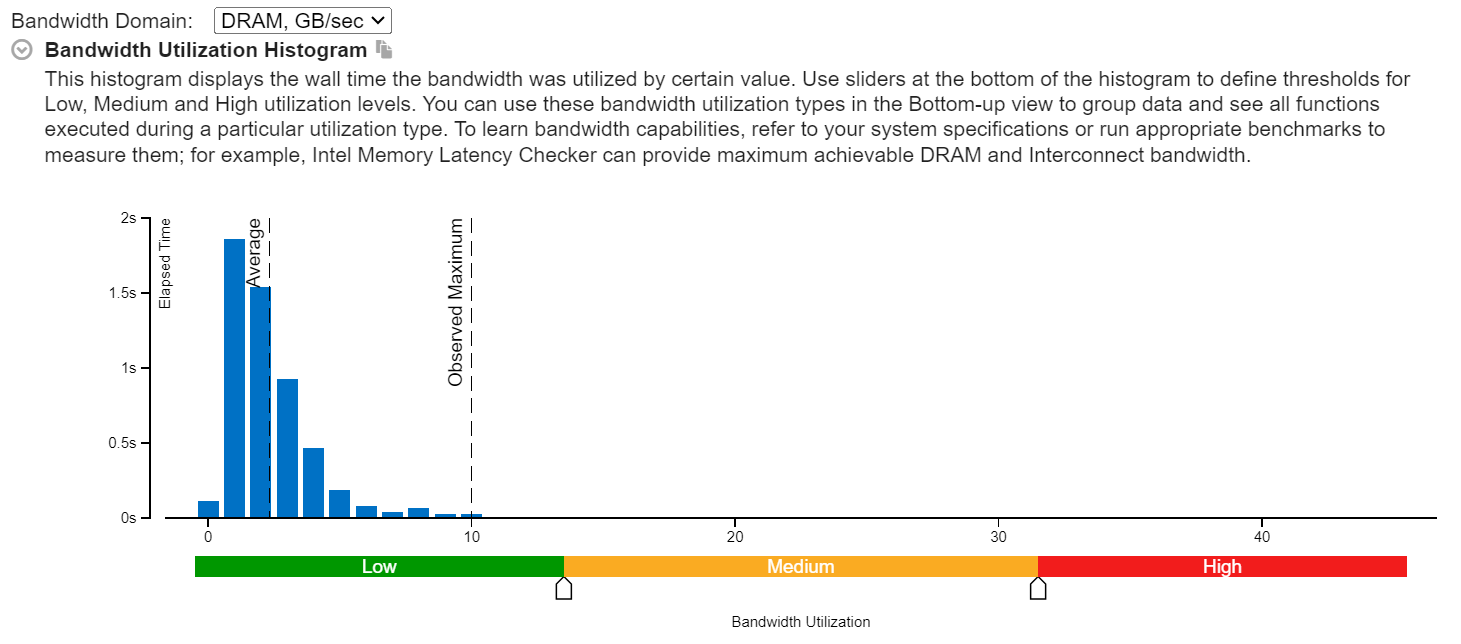
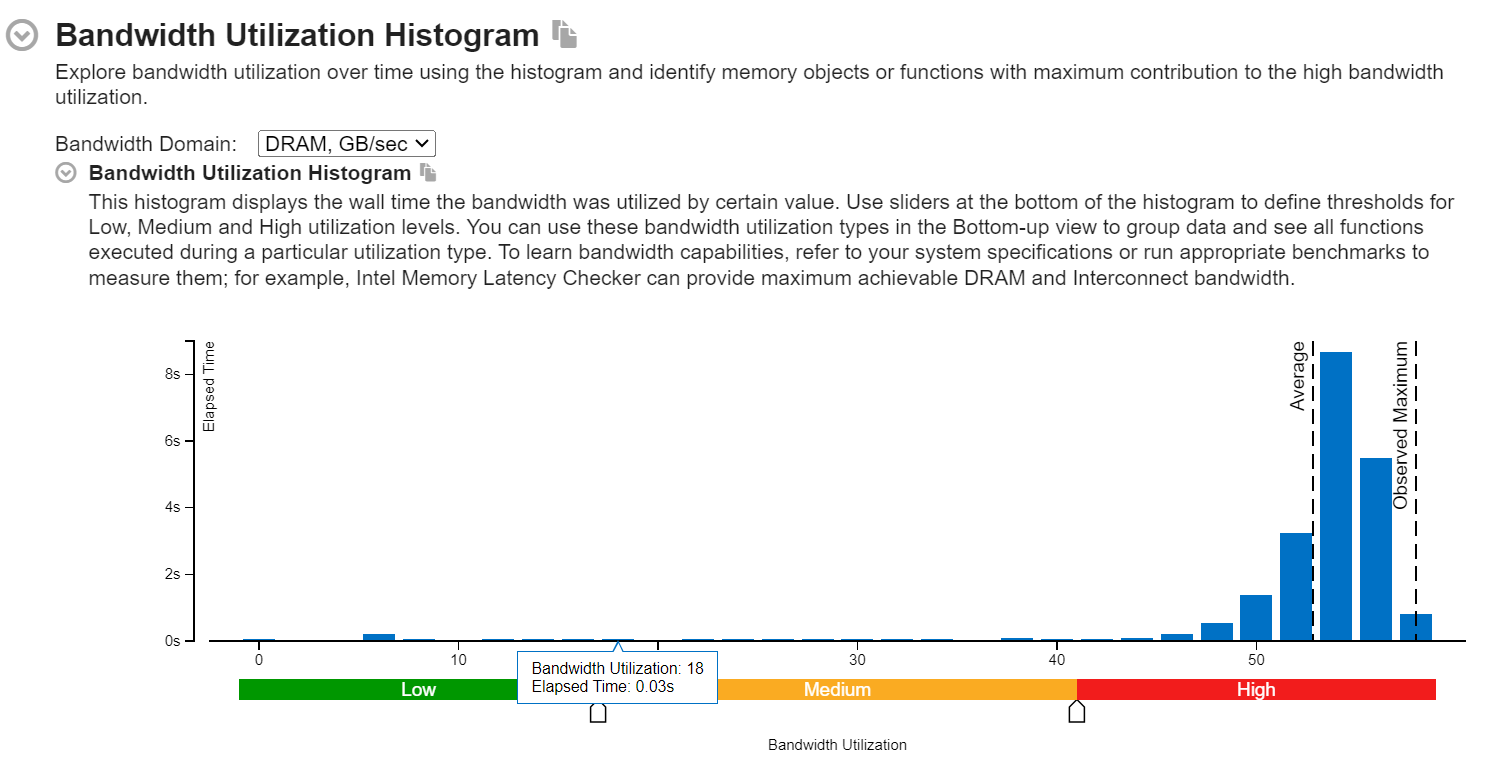
Update code and README
- for bandwidth saturation test results and memory allocation
- Update README with new results

diff --git a/main.cpp b/main.cpp
@@ -16,7 +16,7 @@
 
 using namespace std::chrono;
 
-const size_t BUFFER_SIZE = 2ULL * 1024ULL * 1024ULL * 1024ULL;
+const size_t BUFFER_SIZE = 1ULL * 1024ULL * 1024ULL * 1024ULL;
 const size_t STRIDE = 16;
 const size_t ELEMENT_SIZE = sizeof(int64_t);
 const size_t ELEMENTS = BUFFER_SIZE / ELEMENT_SIZE;
@@ -25,7 +25,6 @@ const unsigned NUM_THREADS = std::thread::hardware_concurrency();
 
 std::atomic<size_t> totalBytesProcessed(0);
 
-// Кроссплатформенная функция выделения выровненной памяти
 void* aligned_alloc_cross(size_t alignment, size_t size) {
 #if defined(_MSC_VER)
     return _aligned_malloc(size, alignment);
@@ -36,12 +35,10 @@ void* aligned_alloc_cross(size_t alignment, size_t size) {
     if (posix_memalign(&ptr, alignment, size) != 0) ptr = nullptr;
     return ptr;
 #else
-    // C++17 aligned_alloc (но не все реализации поддерживают)
     return std::aligned_alloc(alignment, size);
 #endif
 }
 
-// Кроссплатформенное освобождение памяти
 void aligned_free_cross(void* ptr) {
 #if defined(_MSC_VER)
     _aligned_free(ptr);
@@ -100,7 +97,7 @@ int main() {
 	for (auto& t : threads)
 		t.join();
 
-    aligned_free_cross(buffer); // Освобождаем память
+    aligned_free_cross(buffer);
 
 		auto endTime = steady_clock::now();
 	auto totalDuration = duration_cast<milliseconds>(endTime - startTime);

diff --git a/README.md b/README.md
@@ -25,10 +25,10 @@ Performance Results:
 +--------------------------+-----------------+
 | Metric                   | Value           |
 +--------------------------+-----------------+
-| Max Thread Throughput    |    4732.65 MB/s |
-| Total Throughput         |   67496.45 MB/s |
+| Max Thread Throughput    |    6676.05 MB/s |
+| Total Throughput         |   53408.44 MB/s |
 | Theoretical Bandwidth    |   68160.00 MB/s |
-| Efficiency               |      99.03 %    |
+| Efficiency               |      78.36 %    |
 +--------------------------+-----------------+
 ```
 
@@ -43,27 +43,24 @@ As more threads are added, the throughput gradually decreases, illustrating the 
 
 ## Profiling with Intel VTune Profiler
 
-Intel VTune Profiler was used to analyze memory bandwidth and bottlenecks. Below are key findings and visualizations:
+Intel VTune Profiler was used to analyze memory bandwidth usage and identify performance bottlenecks.
 
 ### Bandwidth Utilization Histogram
 
-This graph displays the wall time associated with DRAM bandwidth usage levels:
+This histogram shows how much time was spent at different levels of DRAM bandwidth usage. In this high-efficiency run, the majority of the execution time falls into the **High** utilization range, confirming bandwidth saturation.
 
-![Bandwidth Utilization Histogram](./images/Bandwidth_plot.png)
+![Bandwidth Histogram](./images/Bandwidth_plot.png)
 
-* Most of the execution time falls within **Low** bandwidth utilization.
-* Indicates underutilization of memory bandwidth despite high thread count.
+### DRAM Bound and Execution Metrics
 
-### DRAM Bound Analysis
+VTune’s breakdown indicates that:
 
-Detailed view of memory-related stalls and loads:
+* **97.1% of elapsed time** is bound by **DRAM bandwidth**.
+* Indicates excellent DRAM utilization, but also a clear bottleneck at the memory subsystem.
 
-![Elapsed Time and Memory Bound Breakdown](./images/Bandwidth.png)
+![DRAM Bound Breakdown](./images/Bandwidth.png)
 
-* **85.7% of clockticks** are stalled due to **L1 and DRAM latency**.
-* **0% DRAM Bandwidth Bound** suggests that throughput bottleneck is not due to raw bandwidth limits but likely due to **access patterns** or **latency**.
-
-These results suggest the system is limited by access efficiency rather than absolute bandwidth availability. Optimization could include improving cache usage or reducing access contention.
+These results confirm that the test has successfully saturated the memory bus, pushing the system near its bandwidth limit.
 
 ## How to Compile and Run
 
